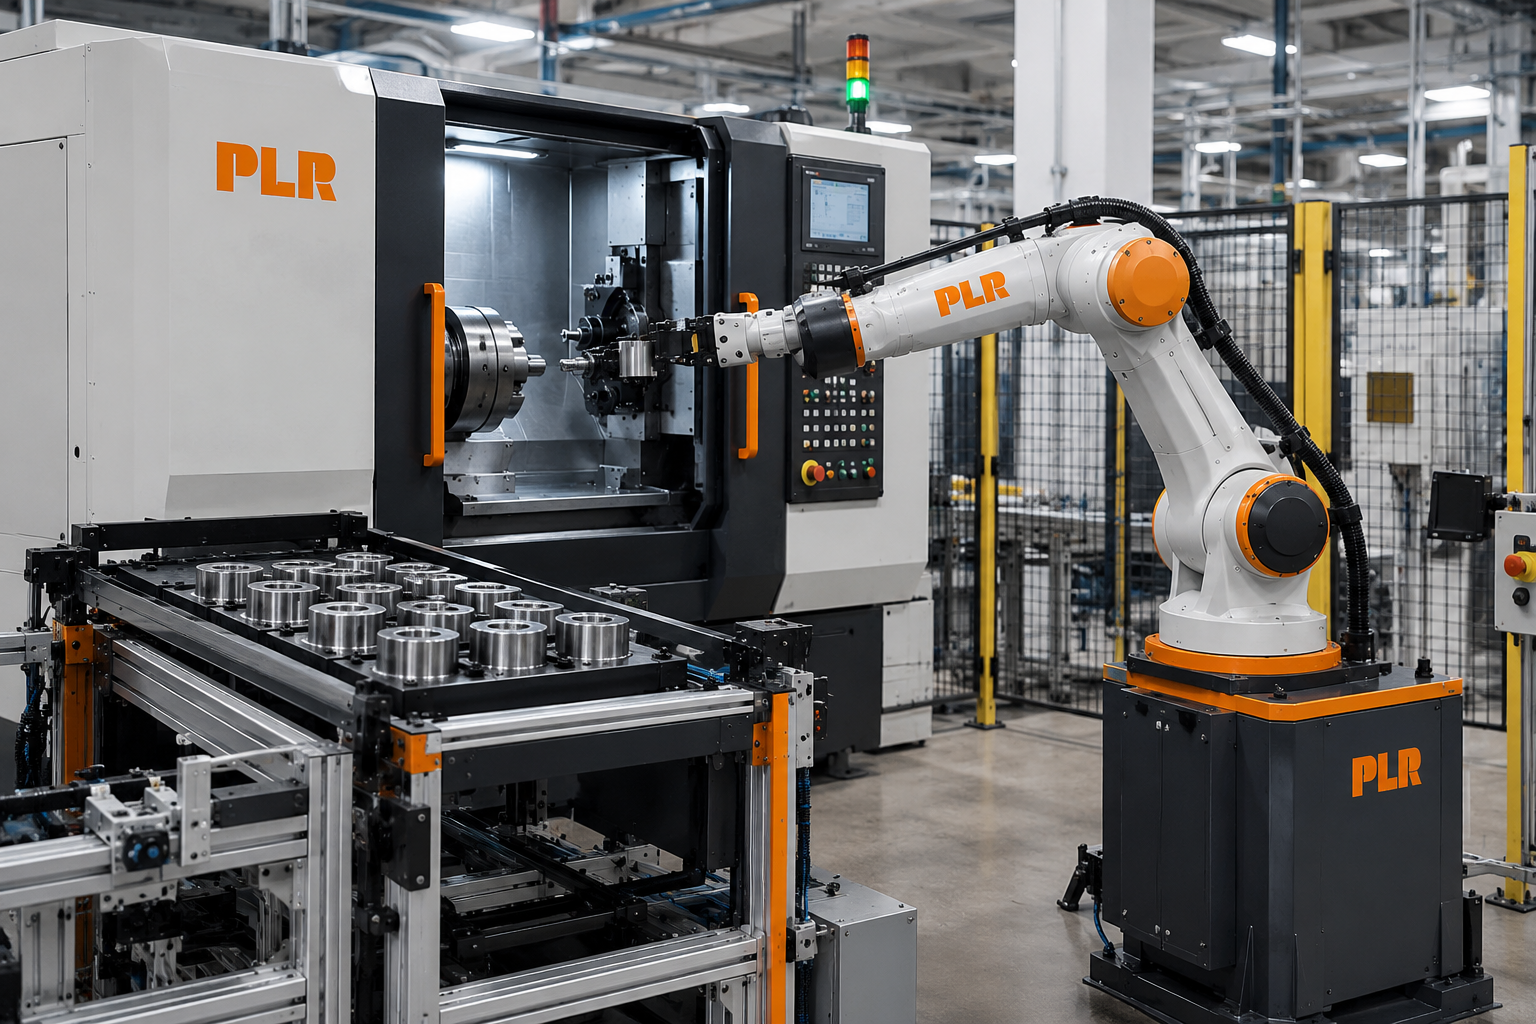
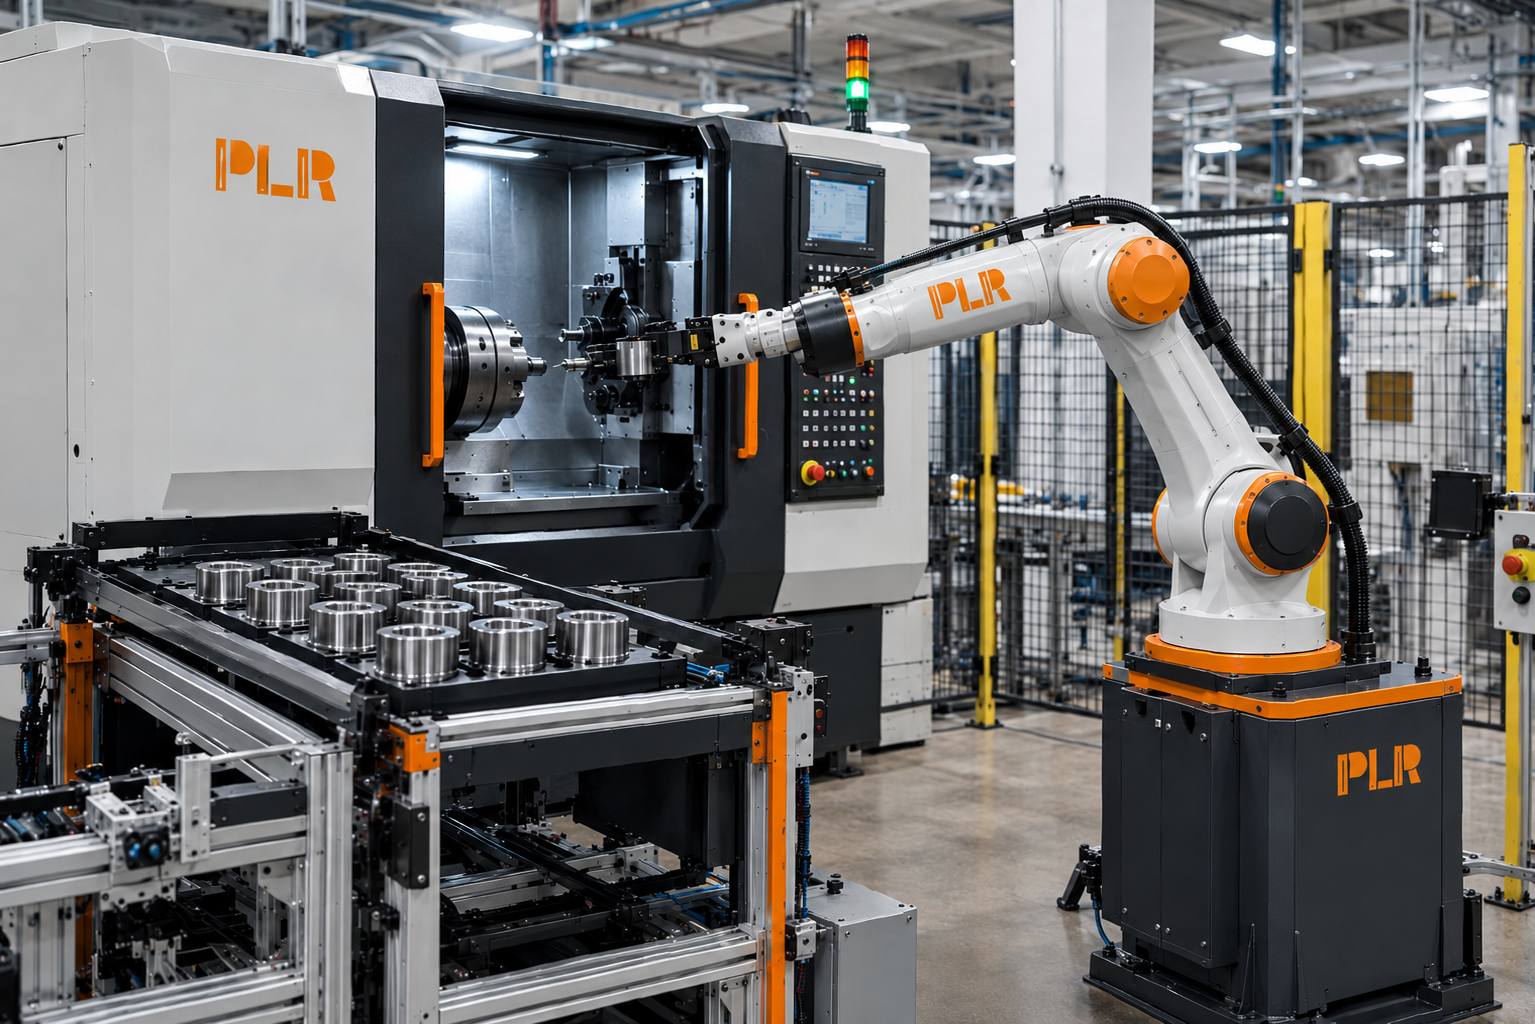
Update application images

diff --git a/src/pages/Applications.jsx b/src/pages/Applications.jsx
@@ -8,7 +8,7 @@ export const applications = [
     slug: 'cnc-machine-automation',
     title: 'CNC Machine Automation',
     short: 'Automate the loading and unloading of CNC machines to improve productivity and keep production running smoothly.',
-    image: '/photos/Application%20Images/cnc.png',
+    image: '/photos/Application%20Images/cnc.jpeg',
     benefits: ['Faster machine operation', 'Reduced manual work', 'Improved production efficiency'],
   },
   {
